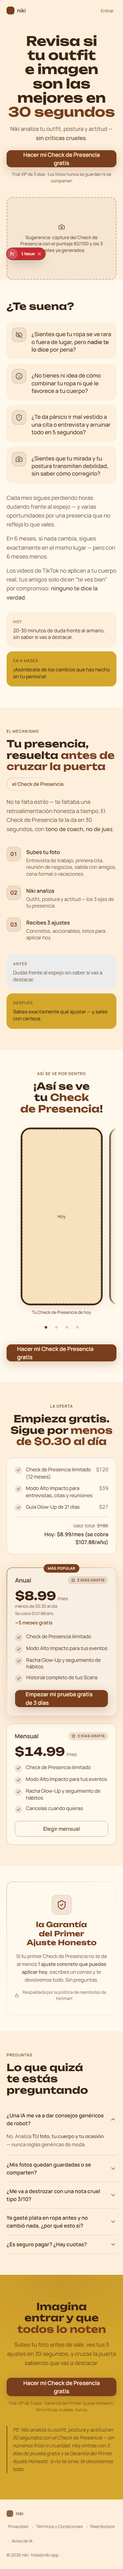
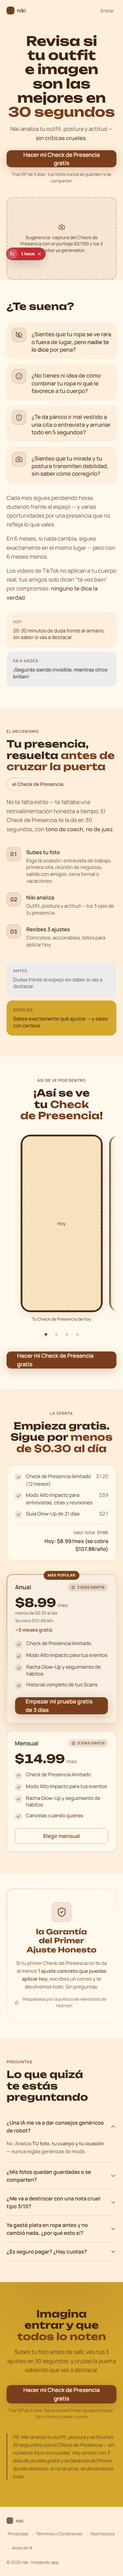
Volver a mensaje negativo en "En 6 meses" con fondo gris claro
El usuario decide volver a la logica de agitacion (costo de esperar)
en vez del giro positivo de la iteracion anterior. Frase propuesta
por el agente, trazada a dolor #5 (identidad, "el chico invisible")
y deseo #3 de FICHA-AVATAR.md: "Seguiras siendo invisible, mientras
otros brillan". Fondo dorado -> gris claro.

Se agrega "Elige la ocasion:" antes de la lista de 6 ocasiones en el
paso 1 de Solucion (quedo implicito en el cambio anterior).

diff --git a/components/landing/Agitacion.tsx b/components/landing/Agitacion.tsx
@@ -58,13 +58,13 @@ export function Agitacion({ frases, contraste, id }: AgitacionProps) {
               </p>
               <p className="mt-2 text-[15px] leading-snug text-[var(--text-primary)]">{contraste.hoy}</p>
             </div>
-            {/* "En 6 meses": fondo dorado a pedido del usuario — destaca el resultado que se
-                imagina al proyectarse hacia adelante con la app. */}
-            <div className="rounded-[var(--radius-card)] bg-[var(--gold)] p-5">
-              <p className="text-[12px] font-semibold uppercase tracking-[0.08em] text-[var(--gold-text)] opacity-70">
+            {/* "En 6 meses": vuelve a gris claro y mensaje de costo de esperar (pedido del
+                usuario) — así la sección recupera su lógica de agitación (PAS). */}
+            <div className="rounded-[var(--radius-card)] bg-[var(--gray-claro)] p-5">
+              <p className="text-[12px] font-semibold uppercase tracking-[0.08em] text-[var(--text-tertiary)]">
                 {contraste.labelFuturo}
               </p>
-              <p className="mt-2 text-[15px] font-medium leading-snug text-[var(--gold-text)]">{contraste.futuro}</p>
+              <p className="mt-2 text-[15px] font-medium leading-snug text-[var(--text-primary)]">{contraste.futuro}</p>
             </div>
           </motion.div>
         )}

diff --git a/app/page.tsx b/app/page.tsx
@@ -73,7 +73,7 @@ export default function LandingNiki() {
           labelHoy: 'Hoy',
           hoy: '20-30 minutos de duda frente al armario, sin saber si vas a destacar.',
           labelFuturo: 'En 6 meses',
-          futuro: '¡Asómbrate de los cambios que has hecho en tu persona!',
+          futuro: '¡Seguirás siendo invisible, mientras otros brillan!',
         }}
       />
 
@@ -83,7 +83,7 @@ export default function LandingNiki() {
         mecanismo="el Check de Presencia"
         bigIdeaMarked="No te falta estilo — te faltaba una retroalimentación honesta a tiempo. El Check de Presencia te la da en 30 segundos, con [b]tono de coach, no de juez[/b]."
         pasos={[
-          { titulo: 'Subes tu foto', detalle: 'Entrevista de trabajo, primera cita, reunión de negocios, salida con amigos, cena formal o vacaciones.' },
+          { titulo: 'Subes tu foto', detalle: 'Elige la ocasión: entrevista de trabajo, primera cita, reunión de negocios, salida con amigos, cena formal o vacaciones.' },
           { titulo: 'Niki analiza', detalle: 'Outfit, postura y actitud — los 3 ejes de tu presencia.' },
           { titulo: 'Recibes 3 ajustes', detalle: 'Concretos, accionables, listos para aplicar hoy.' },
         ]}

diff --git a/docs/copy/landing.md b/docs/copy/landing.md
@@ -44,17 +44,21 @@ outfit, su postura y su actitud antes de que sea tarde. El **Check de Presencia*
 - "Los videos de TikTok no aplican a tu cuerpo real; preguntarle a tus amigos solo te da 'te ves
   bien' por compromiso: [b]ninguno de los dos te dice la verdad[/b]."
 - Contraste: Hoy = "20-30 minutos de duda frente al armario, sin saber si vas a destacar." ·
-  En 6 meses = "¡Asómbrate de los cambios que has hecho en tu persona!" (ajustado a pedido del
-  usuario 2026-09-17: pasa de "costo de no actuar" a "resultado de actuar" — fondo dorado para
-  reforzar el giro positivo; label se acortó a "En 6 meses" para que siga leyéndose coherente)
+  En 6 meses = "¡Seguirás siendo invisible, mientras otros brillan!" (fuente: dolor #5 identidad
+  de la ficha, "Tengo miedo de quedarme siendo 'el chico invisible' para siempre" + deseo #3
+  "Quiero entrar a un lugar y sentir cómo la gente nota mi presencia"). Historial: pasó de
+  negativo → positivo → de vuelta a negativo (el usuario probó el giro positivo con fondo dorado
+  y decidió volver a la lógica de agitación/costo de esperar, ahora con esta frase más específica
+  que la original; fondo gris claro, 2026-09-17).
 
 ## 4. SOLUCIÓN
 - Título: `Tu presencia, resuelta [acento]antes de cruzar la puerta[/acento]`
 - Big Idea: "No te falta estilo — te faltaba una retroalimentación honesta a tiempo. El Check
   de Presencia te la da en 30 segundos, con tono de coach, no de juez." ("devolución" → "
   retroalimentación" a pedido del usuario, 2026-09-17)
-- 3 pasos: 1) Subes tu foto — ocasión: entrevista de trabajo, primera cita, reunión de negocios,
-  salida con amigos, cena formal o vacaciones (lista completa a pedido del usuario) · 2) Niki
+- 3 pasos: 1) Subes tu foto, elige la ocasión: entrevista de trabajo, primera cita, reunión de
+  negocios, salida con amigos, cena formal o vacaciones (lista completa a pedido del usuario) ·
+  2) Niki
   analiza outfit, postura y actitud · 3) Recibes 3 ajustes concretos, listos para aplicar hoy
 - Antes/Después: Antes = "Dudas frente al espejo sin saber si vas a destacar." (fondo gris claro,
   pedido del usuario) · Después = "Sabes exactamente qué ajustar — y sales con certeza." (fondo
